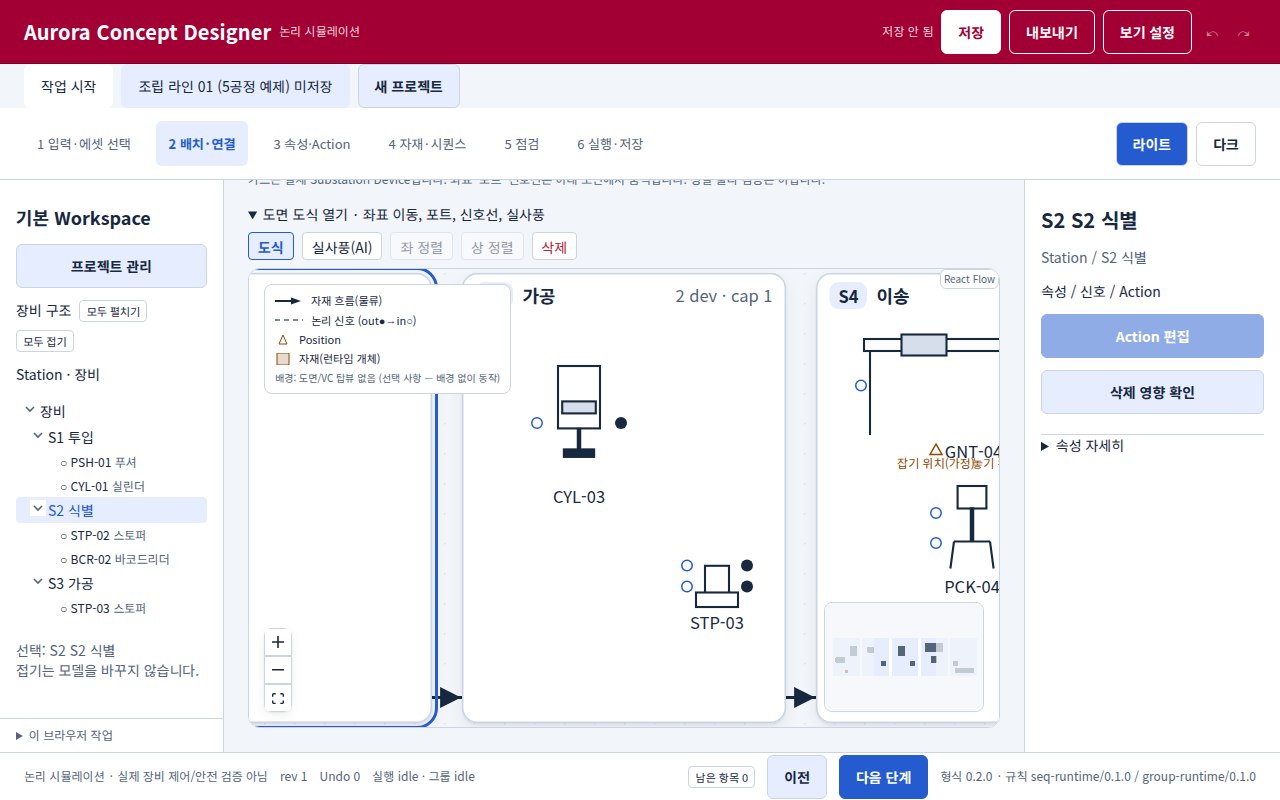
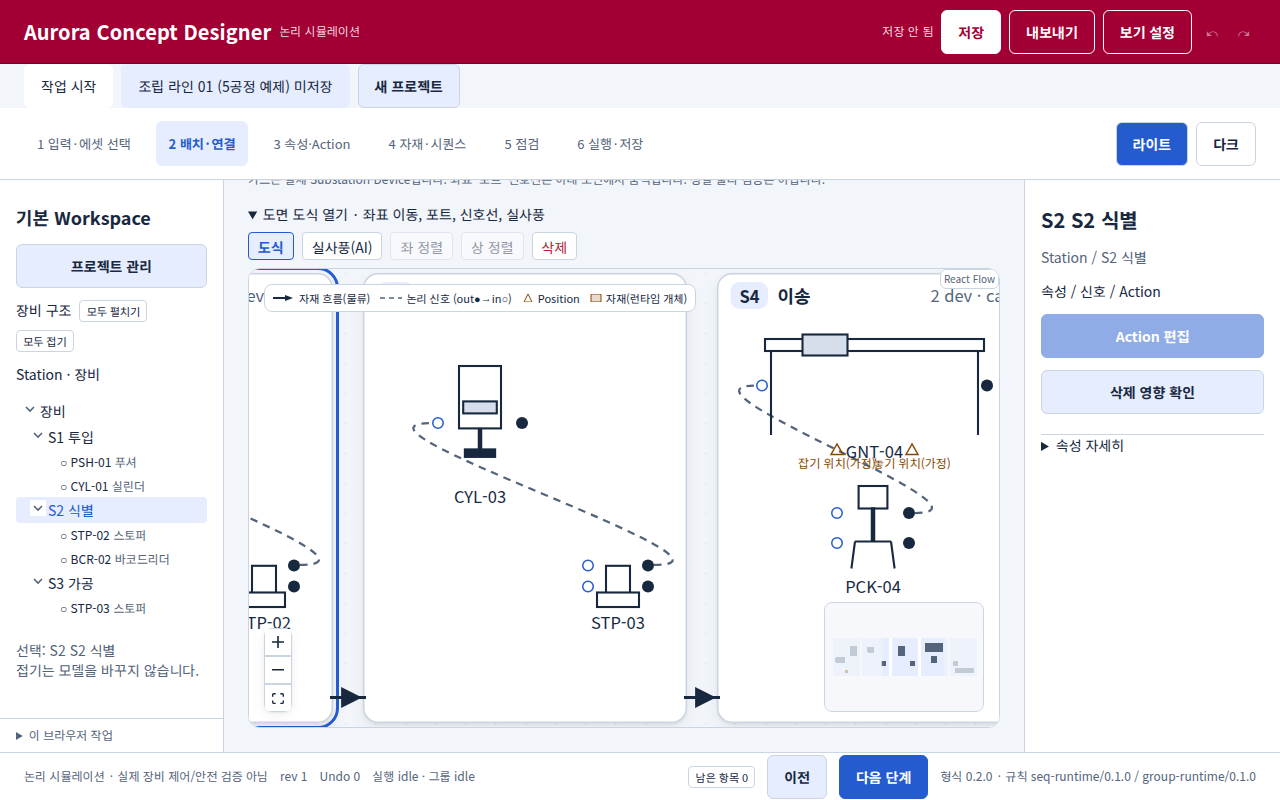
TURN-005: 최소 배율 맞춤은 왼쪽 정렬한다
다섯 Unit이 0.5배에 다 안 들어가면 S1이 왼쪽 여백에서 시작한다. 다 들어가면 가운데 맞춤을 유지한다.

diff --git a/src/ui/Canvas.tsx b/src/ui/Canvas.tsx
@@ -50,6 +50,15 @@ interface Props {
 }
 
 const BLOCKED = '실행 중에는 배치 이동(모델 편집)이 차단됩니다. 선택·보기만 가능합니다.';
+const FIT_MIN_ZOOM = 0.5;
+const FIT_LEFT = 52;
+const FIT_PADDING = { top: '48px', right: '188px', bottom: '140px', left: '52px' } as const;
+
+/** When a fit is clamped to the minimum zoom, pin the leftmost node to the left inset and keep the vertical center. */
+export function leftAlignedViewport(vp: { x: number; y: number; zoom: number }, minZoom: number, leftmostX: number, leftInset: number) {
+  if (vp.zoom > minZoom + 0.001) return vp;
+  return { x: leftInset - leftmostX * vp.zoom, y: vp.y, zoom: vp.zoom };
+}
 
 type DragApi = {
   down: (e: React.PointerEvent, id: string) => void;
@@ -204,7 +213,7 @@ function FlowCanvas(props: Props) {
   const hostRef = useRef<HTMLDivElement>(null);
   const propsRef = useRef(props);
   propsRef.current = props;
-  const { screenToFlowPosition, zoomTo, fitView, getViewport } = useReactFlow();
+  const { screenToFlowPosition, zoomTo, fitView, getViewport, getNodes, setViewport } = useReactFlow();
   const flowRef = useRef(screenToFlowPosition);
   flowRef.current = screenToFlowPosition;
   const dragRef = useRef<{ ids: string[]; sx: number; sy: number; origin: string } | null>(null);
@@ -351,6 +360,22 @@ function FlowCanvas(props: Props) {
     }
   }
 
+  const alignLeftIfMin = useCallback(() => {
+    const vp = getViewport();
+    const nodes = getNodes();
+    if (!nodes.length) return;
+    const minX = Math.min(...nodes.map((n) => n.position.x));
+    const next = leftAlignedViewport(vp, FIT_MIN_ZOOM, minX, FIT_LEFT);
+    if (Math.abs(next.x - vp.x) < 0.5) return;
+    void setViewport(next, { duration: 0 });
+  }, [getViewport, getNodes, setViewport]);
+
+  const fitCanvas = useCallback(async () => {
+    // Insets clear the 28px legend, 28px controls, and 160×110 minimap. Panel margin is 15px.
+    await fitView({ padding: FIT_PADDING, duration: 0, minZoom: FIT_MIN_ZOOM, maxZoom: 2 });
+    alignLeftIfMin();
+  }, [fitView, alignLeftIfMin]);
+
   useEffect(() => {
     const el = hostRef.current;
     if (!el || typeof ResizeObserver === 'undefined') return;
@@ -360,15 +385,13 @@ function FlowCanvas(props: Props) {
       if (r.width > 40 && r.height > 40) {
         if (!fitted) {
           fitted = true;
-          // Side insets keep the first fit clear of the 28px legend, 28px controls, and 160×110 minimap.
-          // Panel margin is 15px. Later pan and zoom may overlap those; that is allowed.
-          void fitView({ padding: { top: '48px', right: '188px', bottom: '140px', left: '52px' }, duration: 0, minZoom: 0.5, maxZoom: 2 });
+          void fitCanvas();
         }
       } else fitted = false;
     });
     ro.observe(el);
     return () => ro.disconnect();
-  }, [fitView]);
+  }, [fitCanvas]);
 
   useEffect(() => {
     const vp = getViewport();
@@ -432,7 +455,9 @@ function FlowCanvas(props: Props) {
         style={{ background: 'var(--canvas)' }}
       >
         {L.background && <Background variant={BackgroundVariant.Dots} gap={20} size={1} color="var(--grid)" />}
-        <Controls showInteractive={false} position="bottom-left" className="nopan" aria-label="도면 확대 축소" />
+        <Controls showInteractive={false} position="bottom-left" className="nopan" aria-label="도면 확대 축소"
+          fitViewOptions={{ padding: FIT_PADDING, duration: 0, minZoom: FIT_MIN_ZOOM, maxZoom: 2 }}
+          onFitView={() => { requestAnimationFrame(() => requestAnimationFrame(() => alignLeftIfMin())); }} />
         <MiniMap
           className="nopan"
           position="bottom-right"

diff --git a/tests/canvas-flow.test.tsx b/tests/canvas-flow.test.tsx
@@ -6,6 +6,7 @@ import { act } from 'react';
 import { createRoot } from 'react-dom/client';
 import { describe, expect, it } from 'vitest';
 import { App } from '../src/ui/App';
+import { leftAlignedViewport } from '../src/ui/Canvas';
 
 (globalThis as { IS_REACT_ACT_ENVIRONMENT?: boolean }).IS_REACT_ACT_ENVIRONMENT = true;
 
@@ -39,6 +40,15 @@ async function mount() {
 }
 
 describe('React Flow canvas (TURN-005)', () => {
+  it('a min-zoom fit pins the leftmost node to the left inset and keeps the vertical center', () => {
+    const fitted = leftAlignedViewport({ x: -180, y: 36, zoom: 0.5 }, 0.5, 30, 52);
+    expect(fitted.y).toBe(36);
+    expect(fitted.zoom).toBe(0.5);
+    expect(30 * fitted.zoom + fitted.x).toBeCloseTo(52);
+    expect(30 * fitted.zoom + fitted.x).toBeGreaterThanOrEqual(52);
+    expect(leftAlignedViewport({ x: 12, y: 20, zoom: 0.8 }, 0.5, 30, 52)).toEqual({ x: 12, y: 20, zoom: 0.8 });
+  });
+
   it('AC1 both diagram and run step mount React Flow and drop the hand-drawn svg', async () => {
     const { el, root, click } = await mount();
     expect(el.querySelector('svg.canvas-svg')).toBeNull();

diff --git a/docs/turns/TURN-005.md b/docs/turns/TURN-005.md
@@ -12,7 +12,7 @@
 
 선택 표시는 링만 쓴다. 쌓임은 Unit 1, 선택 Unit 2, 물류·신호 엣지 3, Device 3, 선택 Device 6, 자재 8 이다. `zIndexMode` 는 `manual` 이라 선택이 이 숫자를 더 올리지 않는다. 그래서 선택한 Unit 이 자기 Device 와 신호선을 가리지 않는다.
 
-범례는 왼쪽 위 가로 한 줄, 높이 28px, 항목 4개다. 「배경: 도면/VC 탑뷰 없음…」은 범례 문장에서 빼고 그 Panel 의 `title` 툴팁으로 두었다. 처음 `fitView` 여백은 위 48px, 오른쪽 188px, 아래 140px, 왼쪽 52px 이다. 범례(28px), 컨트롤(28px), 미니맵(160×110)과 패널 여백 15px 를 비운 값이다. 1280×800 에서는 최소 확대 0.5 에 걸려 표시가 50% 가 된다. 그 다음 사용자가 옮기거나 확대하면 겹쳐도 된다.
+범례는 왼쪽 위 가로 한 줄, 높이 28px, 항목 4개다. 「배경: 도면/VC 탑뷰 없음…」은 범례 문장에서 빼고 그 Panel 의 `title` 툴팁으로 두었다. 처음 `fitView` 여백은 위 48px, 오른쪽 188px, 아래 140px, 왼쪽 52px 이다. 범례(28px), 컨트롤(28px), 미니맵(160×110)과 패널 여백 15px 를 비운 값이다. 맞춤 결과가 최소 확대 0.5 에 걸리면 가운데로 두지 않고 왼쪽 정렬한다. 가장 왼쪽 노드의 화면 x 가 왼쪽 여백 52px 이고, 세로는 맞춤이 잡은 가운데를 유지한다. 잘리는 오른쪽은 미니맵과 이동으로 본다. 다 들어가는 경우(실행 단계)는 가운데 맞춤 그대로다. 1280×800 배치 화면은 50% 에 걸린다. 그 다음 사용자가 옮기거나 확대하면 겹쳐도 된다.
 
 `diagramOpen` 은 확대율이 바뀌어 부모가 다시 그려질 때, 제어되는 `open={false}` 가 사용자가 연 도면을 바로 닫지 않게 연 상태를 유지한다. 접기 위치는 그대로다.
 
@@ -32,11 +32,11 @@
 
 | 종류 | 결과 |
 |---|---|
-| 자동 테스트 | `npm test` 15파일 364개 통과. 캔버스 교체·다중 이동 1회 Undo·소속 변경 모달·선택 Unit 보다 Device·신호선·자재가 위·확대가 모델을 안 바꾸는 것·연결·레이어·정렬·삭제·실행 잠금·CSS 토큰·컨트롤 아이콘 대비를 포함한다. 이 숫자는 이 문서 작성 시점의 로컬 실행이다. 통과 판정은 CI 를 따른다 |
+| 자동 테스트 | `npm test` 15파일 365개 통과. 캔버스 교체·다중 이동 1회 Undo·소속 변경 모달·선택 Unit 보다 Device·신호선·자재가 위·최소 배율 맞춤의 왼쪽 정렬 계산·확대가 모델을 안 바꾸는 것·연결·레이어·정렬·삭제·실행 잠금·CSS 토큰·컨트롤 아이콘 대비를 포함한다. 이 숫자는 이 문서 작성 시점의 로컬 실행이다. 통과 판정은 CI 를 따른다 |
 | 형식 검사 | `npm run typecheck` 통과 (`npm run build` 의 tsc 포함) |
 | 빌드 | `npm run build` 로 크기만 재고 `release/` 는 되돌렸다. 전 3,890,485바이트, 후 4,102,530바이트, 증가 212,045바이트 |
-| jsdom | `ResizeObserver`, `DOMMatrixReadOnly`, `PointerEvent` 대역을 둔다. 대역으로 노드 이동·모달·툴바 확대·컨트롤 확대·휠 뒤 rev 불변·레이어·연결을 봤다. 대역은 레이아웃 엔진이 아니다 |
-| Chrome | 156.0.8078.47 headless, CSS 뷰포트 1280×800, devicePixelRatio 1. 콘솔 오류 0. S2 를 선택해도 BCR-02·STP-02 의 z-index 는 3, Unit 은 2 이고 장치 이름이 남았다. 처음 맞춤에서 범례·미니맵·컨트롤과 노드 사각형이 겹치지 않았고, 범례 높이는 28px, 확대 표시는 50% 였다. S2 를 106% 로 확대하면 STP-02·BCR-02 와 포트 7개, 신호선 3개가 화면 안에 있다. 실행 중 활성 장치는 BCR-02, ON 신호선 `rf-sig-on` 1개, 자재 `M-001 · 투입됨`, 편집 잠금이었다. 이전 확인에서 휠 56%→74% 와 reduced-motion `animation-name: none` 도 봤다 |
+| jsdom | `ResizeObserver`, `DOMMatrixReadOnly`, `PointerEvent` 대역을 둔다. 대역으로 노드 이동·모달·툴바 확대·컨트롤 확대·휠 뒤 rev 불변·레이어·연결을 봤다. 왼쪽 정렬은 화면 좌표를 재지 못하고, 확대 0.5 일 때 `leftAlignedViewport` 가 가장 왼쪽 노드를 52px 에 두고 세로는 그대로인지만 본다. 대역은 레이아웃 엔진이 아니다 |
+| Chrome | 156.0.8078.47 headless, CSS 뷰포트 1280×800, devicePixelRatio 1. 콘솔 오류 0. S2 를 선택해도 BCR-02·STP-02 의 z-index 는 3, Unit 은 2 이고 장치 이름이 남았다. 처음 맞춤에서 범례·미니맵·컨트롤과 노드 사각형이 겹치지 않았고, 범례 높이는 28px, 확대 표시는 50% 였다. S1(`U-S1`) 왼쪽은 캔버스 기준으로 52px 이라 「투입」이 잘리지 않았다. S2 를 106% 로 확대하면 STP-02·BCR-02 와 포트 7개, 신호선 3개가 화면 안에 있다. 실행 중 활성 장치는 BCR-02, ON 신호선 `rf-sig-on` 1개, 자재 `M-001 · 투입됨`, 편집 잠금이었다. 이전 확인에서 휠 56%→74% 와 reduced-motion `animation-name: none` 도 봤다 |
 
 그림은 이 폴더에 있다.
 
